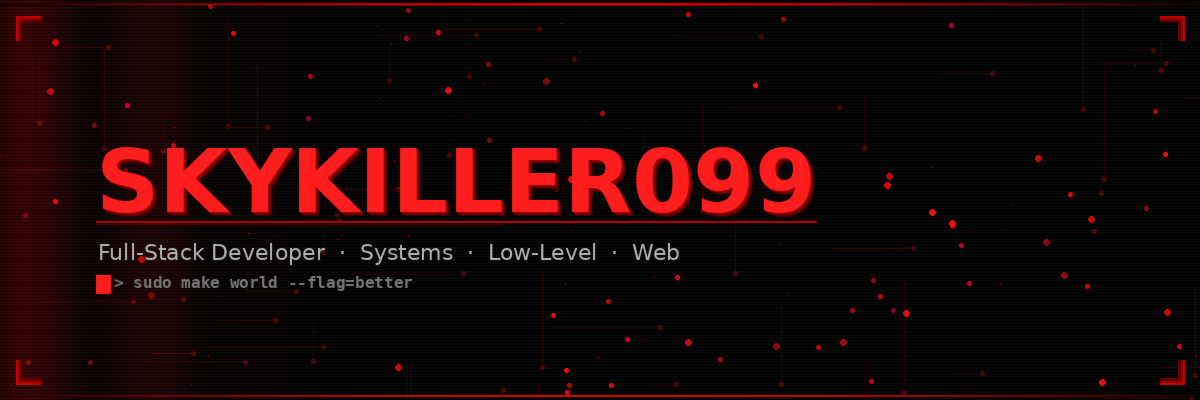
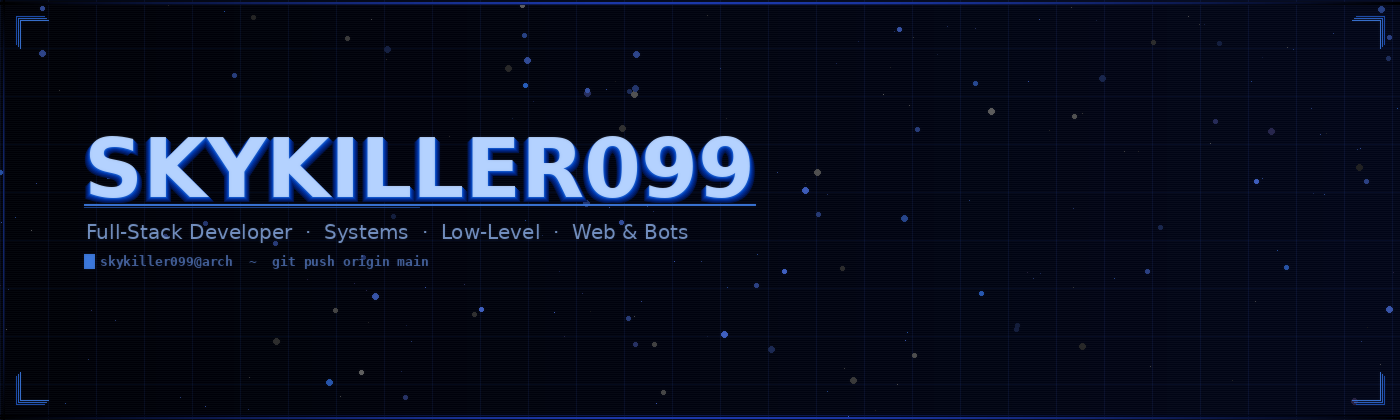
update massive

diff --git a/README.md b/README.md
@@ -1,5 +1,7 @@
-<!-- SKYKILLER099 — GitHub Profile README -->
-<!-- Upload banner.png to root of skykiller099/skykiller099 repo -->
+<!-- ═══════════════════════════════════════════ -->
+<!--   SKYKILLER099 — GitHub Profile README    -->
+<!--   Upload banner.png alongside this file   -->
+<!-- ═══════════════════════════════════════════ -->
 
 <div align="center">
 
@@ -7,7 +9,7 @@
 
 <br/><br/>
 
-[![Typing SVG](https://readme-typing-svg.demolab.com?font=JetBrains+Mono&weight=900&size=18&duration=2500&pause=1200&color=FF2020&center=true&vCenter=true&width=680&height=45&lines=%5B+INIT+%5D+Booting+developer+environment...;%5B+LOAD+%5D+C+%2F+C%2B%2B+%2F+JS+%2F+Python+%2F+Node.js;%5B+BUILD+%5D+make+all+--jobs%3D%E2%88%9E;%5B+SHIP+%5D+git+push+origin+main;%5B+EXEC+%5D+.%2Fskykiller099+--mode%3Delite)](https://git.io/typing-svg)
+[![Typing SVG](https://readme-typing-svg.demolab.com?font=JetBrains+Mono&weight=700&size=16&duration=2800&pause=1400&color=4D9EFF&background=00000000&center=true&vCenter=true&width=700&height=40&lines=%5B+SYS+%5D+Initializing+stack...+C+%2F+C%2B%2B+%2F+JS+%2F+Python+%2F+Node;%5B+NET+%5D+Connected+%E2%80%94+always+building%2C+always+shipping;%5B+RUN+%5D+.%2Fskykiller099+--mode%3Delite+--no-limits)](https://git.io/typing-svg)
 
 </div>
 
@@ -15,175 +17,223 @@
 
 ---
 
-## 🗂 IDENTITY CARD
+<br/>
+
+## ` 01 ` &nbsp; WHO AM I
 
 ```
-┌─────────────────────────────────────────┐
-│   ▸ ALIAS      Skykiller099             │
-│   ▸ ROLE       Full-Stack Developer     │
-│   ▸ FOCUS      Systems · Web · Bots     │
-│   ▸ LANGS      C  C++  JS  PY  SQL      │
-│   ▸ OS         Linux / Windows          │
-│   ▸ TIER       ▓▓▓▓▓▓▓▓▓▓  ELITE       │
-│   ▸ STATUS     ● ONLINE  /  BUILDING    │
-│                                         │
-│   "Write code that outlives you."       │
-└─────────────────────────────────────────┘
+╭──────────────────────────────────────────────────────╮
+│                                                      │
+│   alias     →   Skykiller099                         │
+│   role      →   Full-Stack Developer                 │
+│   domains   →   Systems · Web · Automation · Bots    │
+│   stack     →   C · C++ · JavaScript · Python · SQL  │
+│   os        →   Linux & Windows                      │
+│   editor    →   VS Code · Sublime Text               │
+│   tier      →   ████████████  ELITE                  │
+│   uptime    →   99.9%  ●  ALWAYS ONLINE              │
+│                                                      │
+│   "Write code that outlives you."                    │
+│                                                      │
+╰──────────────────────────────────────────────────────╯
 ```
 
 ```python
-# skykiller099.py
+# /usr/local/bin/skykiller099
 class Developer:
-    def __init__(self):
-        self.name    = "Skykiller099"
-        self.stack   = ["C", "C++", "JS", "Python", "Node"]
-        self.coffee  = float("inf")
-        self.fear    = None
+    alias  = "Skykiller099"
+    stack  = ["C", "C++", "JavaScript", "Python", "Node.js"]
+    coffee = float("inf")
+    fear   = None
 
-    def run(self):
+    def loop(self):
         while True:
             self.build()
             self.learn()
             self.ship()
 
-Developer().run()
+Developer().loop()
 ```
+
+<br/>
 
 ---
 
-## 📊 STATISTICS
+<br/>
+
+## ` 02 ` &nbsp; METRICS
 
 <div align="center">
 
-[![GitHub Stats](https://github-readme-stats.vercel.app/api?username=skykiller099&show_icons=true&count_private=true&hide_border=true&theme=tokyonight&bg_color=0d1117&title_color=FF2020&icon_color=FF2020&text_color=c9d1d9)](https://github.com/skykiller099)
+[![Stats](https://github-readme-stats.vercel.app/api?username=skykiller099&show_icons=true&count_private=true&hide_border=true&theme=tokyonight&bg_color=060810&title_color=4D9EFF&icon_color=4D9EFF&text_color=8ba3cc)](https://github.com/skykiller099)
 
-[![GitHub Streak](https://streak-stats.demolab.com?user=skykiller099&theme=dark&hide_border=true&background=0d1117&ring=FF2020&fire=FF2020&currStreakLabel=FF2020)](https://github.com/skykiller099)
+[![Streak](https://streak-stats.demolab.com?user=skykiller099&hide_border=true&background=060810&ring=4D9EFF&fire=7ec8ff&currStreakLabel=4D9EFF&sideLabels=8ba3cc&dates=4a5568&theme=dark)](https://github.com/skykiller099)
 
-[![Top Langs](https://github-readme-stats.vercel.app/api/top-langs/?username=skykiller099&layout=compact&hide_border=true&theme=tokyonight&bg_color=0d1117&title_color=FF2020&text_color=c9d1d9&langs_count=8)](https://github.com/skykiller099)
+[![Top Langs](https://github-readme-stats.vercel.app/api/top-langs/?username=skykiller099&layout=compact&hide_border=true&theme=tokyonight&bg_color=060810&title_color=4D9EFF&text_color=8ba3cc&langs_count=8)](https://github.com/skykiller099)
 
 </div>
 
+<br/>
+
 ---
 
-## 🔴 TECH STACK
+<br/>
+
+## ` 03 ` &nbsp; TECH STACK
 
 <div align="center">
 
-**— LANGUAGES —**
+`LANGUAGES`
 
 <img src="https://skillicons.dev/icons?i=c,cpp,js,ts,python,html,css&theme=dark&perline=7"/>
 
 <br/><br/>
 
-**— TOOLS & RUNTIME —**
+`RUNTIME & TOOLS`
 
 <img src="https://skillicons.dev/icons?i=nodejs,electron,discord,express,npm,axios&theme=dark&perline=6"/>
 
 <br/><br/>
 
-**— DATABASES —**
+`DATABASES`
 
 <img src="https://skillicons.dev/icons?i=mongodb,mysql,sqlite&theme=dark&perline=3"/>
 
 <br/><br/>
 
-**— ENVIRONMENTS —**
+`ENVIRONMENTS`
 
 <img src="https://skillicons.dev/icons?i=linux,debian,ubuntu,kali,raspberrypi,windows&theme=dark&perline=6"/>
 
 <br/><br/>
 
-**— DEV TOOLS —**
+`DEV TOOLS`
 
 <img src="https://skillicons.dev/icons?i=vscode,sublime,git,github,bash&theme=dark&perline=5"/>
 
 </div>
 
+<br/>
+
 ---
 
-## 📈 ACTIVITY GRAPH
+<br/>
+
+## ` 04 ` &nbsp; ACTIVITY
 
 <div align="center">
 
-[![Activity Graph](https://github-readme-activity-graph.vercel.app/graph?username=skykiller099&bg_color=0d1117&color=FF2020&line=FF2020&point=ffffff&area=true&hide_border=true)](https://github.com/skykiller099)
+[![Activity Graph](https://github-readme-activity-graph.vercel.app/graph?username=skykiller099&bg_color=060810&color=4D9EFF&line=4D9EFF&point=ffffff&area_color=4D9EFF20&area=true&hide_border=true&radius=4)](https://github.com/skykiller099)
 
 </div>
 
+<br/>
+
 ---
 
-## 🐍 CONTRIBUTION SNAKE
+<br/>
+
+## ` 05 ` &nbsp; CONTRIBUTION SNAKE
 
 <div align="center">
 
 <picture>
-  <source media="(prefers-color-scheme: dark)" srcset="https://raw.githubusercontent.com/skykiller099/skykiller099/output/github-contribution-grid-snake-dark.svg"/>
+  <source media="(prefers-color-scheme: dark)"  srcset="https://raw.githubusercontent.com/skykiller099/skykiller099/output/github-contribution-grid-snake-dark.svg"/>
   <source media="(prefers-color-scheme: light)" srcset="https://raw.githubusercontent.com/skykiller099/skykiller099/output/github-contribution-grid-snake.svg"/>
   <img alt="snake" src="https://raw.githubusercontent.com/skykiller099/skykiller099/output/github-contribution-grid-snake-dark.svg" width="100%"/>
 </picture>
 
 </div>
 
----
-
-## 🏆 GITHUB TROPHIES
-
-<div align="center">
-
-[![Trophies](https://github-profile-trophy.vercel.app/?username=skykiller099&theme=radical&no-frame=true&no-bg=true&column=7&margin-w=8)](https://github.com/skykiller099)
-
-</div>
+<br/>
 
 ---
-
-## ⚡ SKILL BREAKDOWN
-
-<div align="center">
-
-| DOMAIN | TECHNOLOGIES | MASTERY |
-|:------:|:------------:|:-------:|
-| **Low-Level / Systems** | `C` `C++` | `▓▓▓▓▓▓▓▓░░` Advanced |
-| **Web Front-End** | `HTML5` `CSS3` `JavaScript` | `▓▓▓▓▓▓▓▓▓░` Expert |
-| **Back-End / API** | `Node.js` `Python` `Express` | `▓▓▓▓▓▓▓▓░░` Advanced |
-| **Database** | `SQL` `MongoDB` `phpMyAdmin` | `▓▓▓▓▓▓▓░░░` Proficient |
-| **Infrastructure** | `Linux` `Apache` `Pterodactyl` | `▓▓▓▓▓▓▓▓░░` Advanced |
-| **Automation / Bots** | `Discord.js` `Electron` `Axios` | `▓▓▓▓▓▓▓▓▓░` Expert |
-
-</div>
-
----
-
-## 📡 CONNECT
-
-<div align="center">
-
-[![GitHub](https://img.shields.io/badge/GitHub-skykiller099-FF2020?style=for-the-badge&logo=github&logoColor=white&labelColor=0d1117)](https://github.com/skykiller099)
-&nbsp;
-[![Views](https://komarev.com/ghpvc/?username=skykiller099&color=FF2020&style=for-the-badge&label=VIEWS&labelColor=0d1117)](https://github.com/skykiller099)
-&nbsp;
-[![Followers](https://img.shields.io/github/followers/skykiller099?label=FOLLOWERS&style=for-the-badge&logo=github&color=FF2020&labelColor=0d1117)](https://github.com/skykiller099?tab=followers)
 
 <br/>
 
-```
-╔══════════════════════════════════════════════════════════════════╗
-║  Open to collabs · Open to chaos · Let's ship something real    ║
-║  skykiller099@github:~$ git commit -m "change the world"  _     ║
-╚══════════════════════════════════════════════════════════════════╝
-```
+## ` 06 ` &nbsp; TROPHIES
 
-<sub>Crafted with 🔴 by <b>Skykiller099</b> · <code>fork it · star it · fear it</code></sub>
+<div align="center">
+
+[![Trophies](https://github-profile-trophy.vercel.app/?username=skykiller099&theme=nord&no-frame=true&no-bg=true&column=7&margin-w=10)](https://github.com/skykiller099)
 
 </div>
+
+<br/>
+
+---
+
+<br/>
+
+## ` 07 ` &nbsp; SKILL MATRIX
+
+<div align="center">
+
+|  | DOMAIN | STACK | LEVEL |
+|:-:|:------:|:-----:|:-----:|
+| ◈ | **Systems / Low-Level** | `C` · `C++` | `████████░░` Advanced |
+| ◈ | **Web Front-End** | `HTML` · `CSS` · `JS` | `█████████░` Expert |
+| ◈ | **Back-End** | `Node.js` · `Python` · `Express` | `████████░░` Advanced |
+| ◈ | **Database** | `SQL` · `MongoDB` · `phpMyAdmin` | `███████░░░` Proficient |
+| ◈ | **Infrastructure** | `Linux` · `Apache` · `Pterodactyl` | `████████░░` Advanced |
+| ◈ | **Automation & Bots** | `Discord.js` · `Electron` · `Axios` | `█████████░` Expert |
+
+</div>
+
+<br/>
+
+---
+
+<br/>
+
+## ` 08 ` &nbsp; CONNECT
+
+<div align="center">
+
+[![GitHub](https://img.shields.io/badge/GitHub-skykiller099-4D9EFF?style=for-the-badge&logo=github&logoColor=white&labelColor=060810)](https://github.com/skykiller099)
+&nbsp;
+[![Views](https://komarev.com/ghpvc/?username=skykiller099&color=4D9EFF&style=for-the-badge&label=PROFILE+VIEWS&labelColor=060810)](https://github.com/skykiller099)
+&nbsp;
+[![Followers](https://img.shields.io/github/followers/skykiller099?label=FOLLOWERS&style=for-the-badge&logo=github&color=4D9EFF&labelColor=060810)](https://github.com/skykiller099?tab=followers)
+
+<br/><br/>
+
+```
+┌──────────────────────────────────────────────────────────────────┐
+│                                                                  │
+│   Open for collaborations  ·  Open to new challenges            │
+│   Let's build something that matters.                           │
+│                                                                  │
+│   skykiller099@github ~ $ _                                      │
+│                                                                  │
+└──────────────────────────────────────────────────────────────────┘
+```
+
+<br/>
+
+<sub>
+&nbsp;&nbsp;
+<code>◈ Skykiller099</code>
+&nbsp;·&nbsp;
+<code>fork · star · ship</code>
+&nbsp;&nbsp;
+</sub>
+
+</div>
+
+<br/><br/>
 
 ---
 
 <!--
-════════ SETUP ════════
+════════════════════════════════════════════
+  SETUP
+════════════════════════════════════════════
 
-1. Repo: skykiller099/skykiller099  (public, name = username)
-2. Add both files: README.md + banner.png at root
+1. Create PUBLIC repo named: skykiller099
+2. Upload at root: README.md + banner.png
 
-3. For snake animation, create .github/workflows/snake.yml:
+3. Snake — create .github/workflows/snake.yml:
 
 name: snake
 on:
@@ -206,6 +256,6 @@ jobs:
         env:
           GITHUB_TOKEN: ${{ secrets.GITHUB_TOKEN }}
 
-Run it manually once from the Actions tab.
-═══════════════════════
+Then: Actions → Run workflow once.
+════════════════════════════════════════════
 -->
